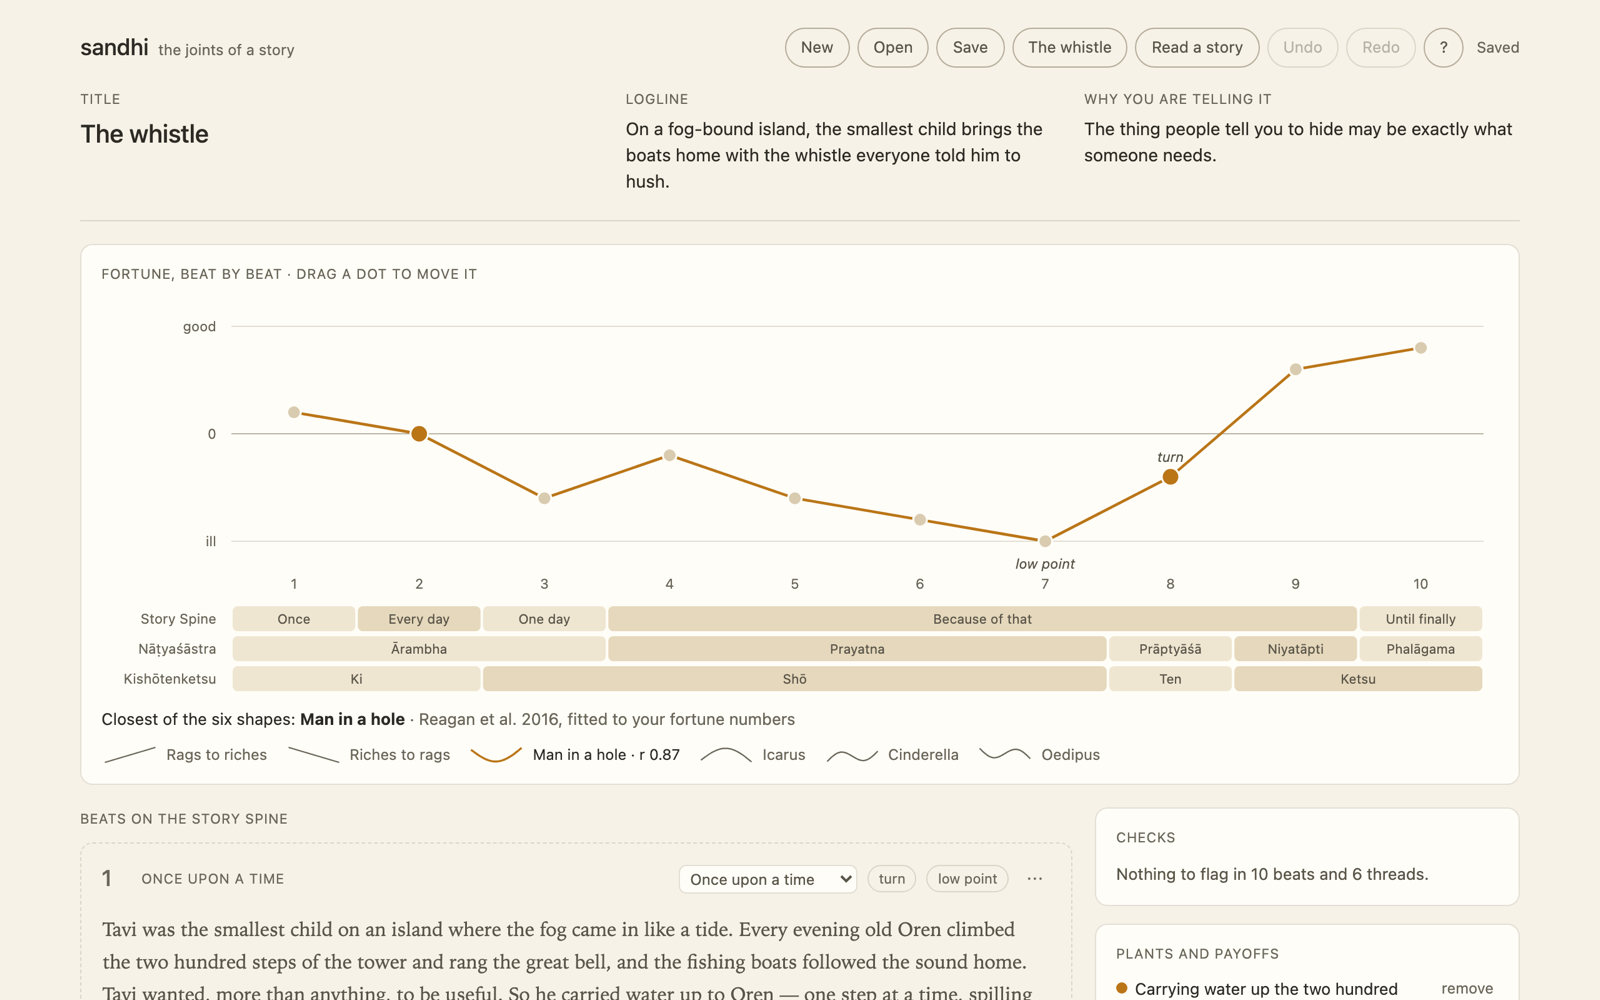
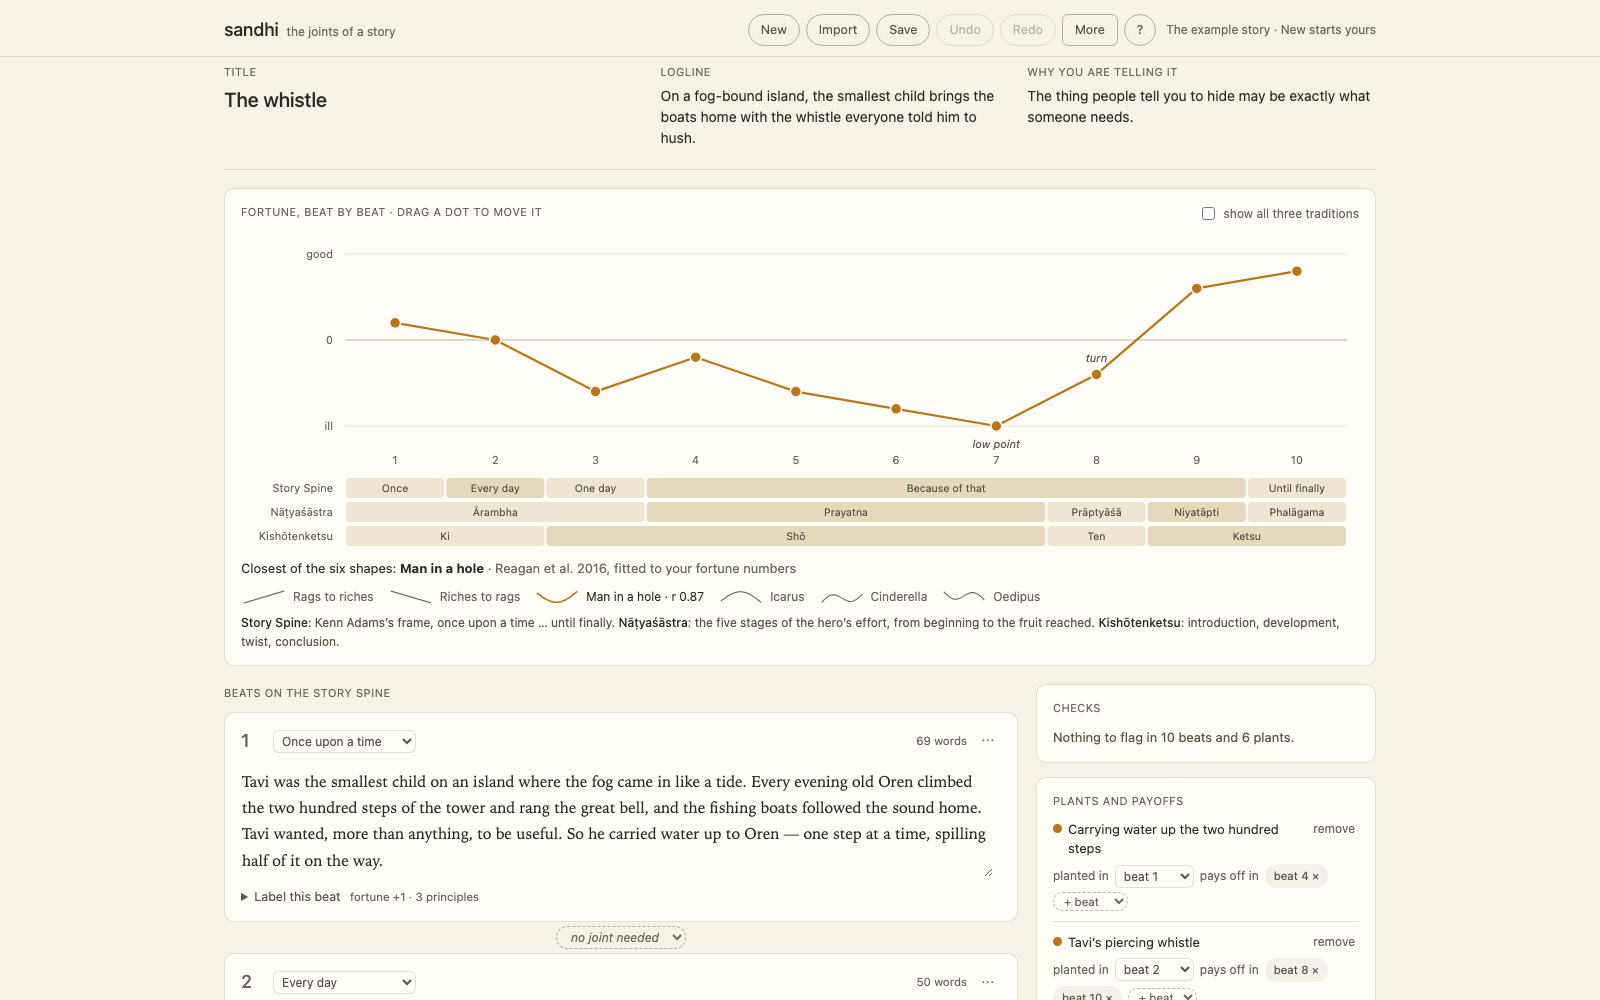
UX leftovers: the example is named, a phone chart names every stage, a phone hides readers it cannot run; new hero
- M3: the untouched demo reads "The example story · New starts yours", never "saved"
- L12: a chart segment too narrow for its name shows as much of it as fits
- L4: on a phone, Other readers (a model server, Gemini Nano) are hidden
- marketing/hero.png reshot on the write-first layout (1600x1000)

Gates: core 81, ladder 27, parity 34, face 131, a11y 0 blocking.

diff --git a/index.html b/index.html
@@ -278,6 +278,7 @@ footer code{font-size:11.5px}
 .empty{color:var(--faint);font-size:13px;margin:0}
 @media (max-width:900px){.cols{grid-template-columns:minmax(0,1fr)}aside{position:static}.about{grid-template-columns:minmax(0,1fr)}#panel{grid-template-columns:minmax(0,1fr)}}
 #undo .ico,#redo .ico{display:none}
+@media (pointer:coarse) and (max-width:600px){#other-readers:not([open]){display:none}}   /* a phone runs no model server and no Gemini Nano (UX L4) */
 @media (max-width:600px){.brand span,#savestate{display:none}.top{gap:8px}.actions{gap:4px}.actions .btn{padding:4px 9px;font-size:12px}#undo .lbl,#redo .lbl{display:none}#undo .ico,#redo .ico{display:inline}.tradsw{float:none;margin:0 0 6px}}
 @media (max-width:600px){.top{padding:10px 16px 8px}main{padding:0 16px 32px}footer{padding:16px}}
 /* the page is drawn by its scripts: until the first render, nothing shows, so nothing visible moves (layout shift 0.63 on a slow phone) */
@@ -1718,8 +1719,10 @@ function renderRecent() {
   $('#recent').innerHTML = list.length ? list.map((x, k) => `<button type="button" data-ui="recent" data-k="${k}">${esc(x.title)} <span class="faint">· ${esc(new Date(x.at).toLocaleString([], { dateStyle: 'short', timeStyle: 'short' }))}</span></button>`).join('')
     : '<p class="mlab">None yet: a story you replace waits here.</p>';
 }
+const SEED_JSON = JSON.stringify(C.seed());
 function renderSaveState() {
-  $('#savestate').textContent = !app.kept ? 'Not kept in this browser: its storage is full · save to a file' : app.dirty ? 'In this browser · not saved to a file' : app.savedNote || 'In this browser';
+  const example = JSON.stringify(S()) === SEED_JSON;   // the untouched demo is named as such, never "saved" (UX M3)
+  $('#savestate').textContent = !app.kept ? 'Not kept in this browser: its storage is full · save to a file' : app.savedNote || (example ? 'The example story · New starts yours' : app.dirty ? 'In this browser · not saved to a file' : 'In this browser');
   if (app.dirty) app.savedNote = null;
   $('#undo').disabled = !app.undo.length; $('#redo').disabled = !app.redo.length;
 }
@@ -1763,7 +1766,8 @@ function phaseRow(s, [k, label, vocab], yy, geo) {
 }
 function phaseSeg(item, i, j, yy, alt, { L, w, RH }) {
   const x0 = L + w * i + 1, x1 = L + w * (j + 1) - 1, fits = (t) => !!t && x1 - x0 > t.length * 6 + 8;
-  const shown = fits(item.name) ? item.name : fits(item.short) ? item.short : '';
+  const room = Math.floor((x1 - x0 - 8) / 6);   // a narrow segment (a phone) shows as much of the name as fits, never a blank (UX L12)
+  const shown = fits(item.name) ? item.name : fits(item.short) ? item.short : room >= 2 ? item.name.slice(0, room - 1) + '.' : '';
   const g = `<rect class="${alt % 2 ? 'seg-b' : 'seg-a'}" x="${x0}" y="${yy}" width="${Math.max(2, x1 - x0)}" height="${RH}" rx="4"><title>${esc(item.name)}${item.gloss ? ' · ' + esc(item.gloss) : ''}, beats ${i + 1}${j > i ? '–' + (j + 1) : ''}</title></rect>`;
   return shown ? g + `<text class="segt" x="${(x0 + x1) / 2}" y="${yy + RH / 2 + 4}" text-anchor="middle" pointer-events="none">${esc(shown)}</text>` : g;
 }
